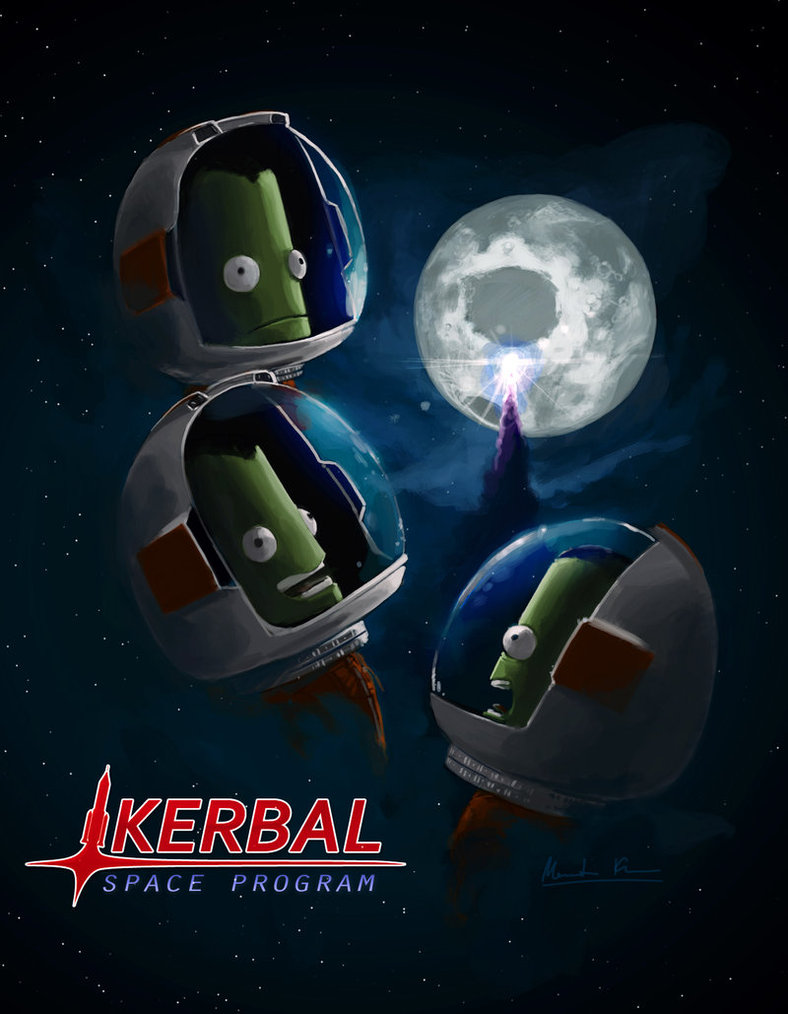
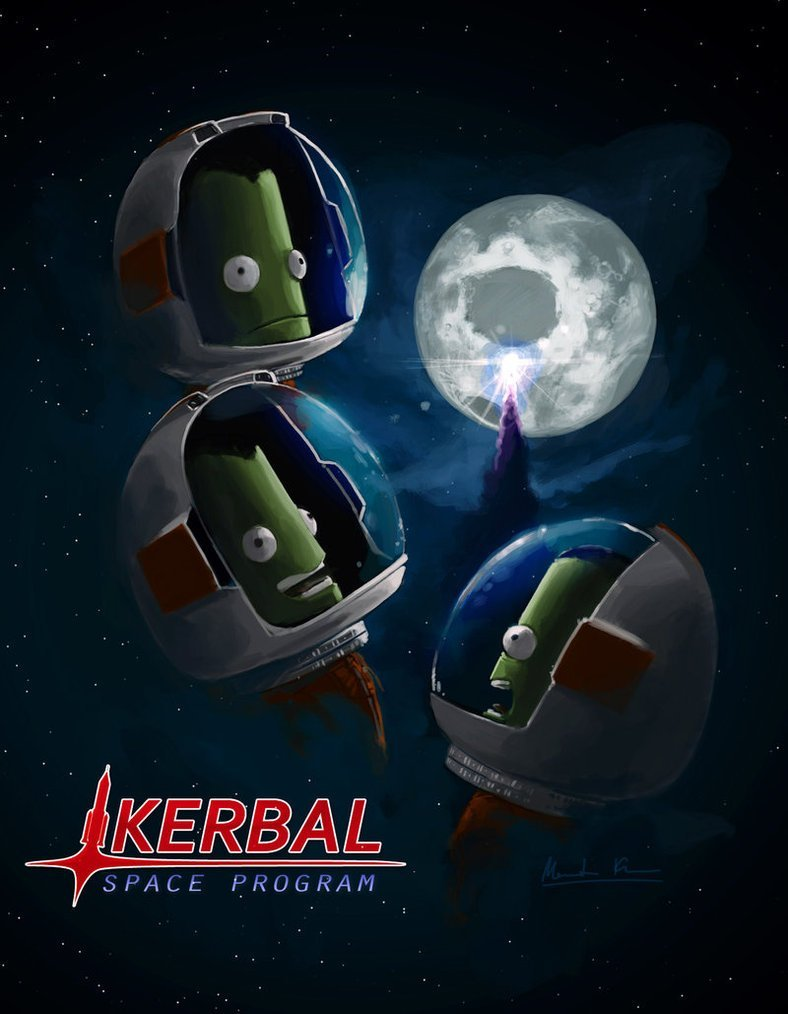
Optimize images

Changed region(s): [[0.0914, 0.7949, 0.4873, 0.8866], [0.1218, 0.7643, 0.1523, 0.7949], [0.0609, 0.8254, 0.0914, 0.856]]

diff --git a/web/index.html b/web/index.html
@@ -142,6 +142,14 @@ table a
 	text-decoration: none;
 	font-family: sans-serif;
 }
+#toc>dl>dt:nth-child( 3)>a { background-image: url('img/banners/minmus.jpg'); }
+#toc>dl>dt:nth-child( 5)>a { background-image: url('img/banners/gilly.jpg'); }
+#toc>dl>dt:nth-child( 7)>a { background-image: url('img/banners/eve.jpg'); }
+#toc>dl>dt:nth-child( 9)>a { background-image: url('img/banners/duna.jpg'); }
+#toc>dl>dt:nth-child(11)>a { background-image: url('img/banners/ike.jpg'); }
+#toc>dl>dt:nth-child(13)>a { background-image: url('img/banners/laythe.jpg'); }
+#toc>dl>dt:nth-child(15)>a { background-image: url('img/banners/jool.jpg'); }
+#toc>dl>dt:nth-child(17)>a { background-image: url('img/banners/pol.jpg'); }
 </style>
 </head>
 <body>
@@ -206,17 +214,17 @@ freely available, but you can make a payment to support the project.
 <dl>
 <dt><a href="intro.html">Introduction</a></dt>
 <dd>A short introduction describing the document.</dd>
-<dt><a href="basics.html" style="background-image: url('img/banners/minmus.png')">Basics</a></dt>
+<dt><a href="basics.html">Basics</a></dt>
 <dd>A few notations and concepts from mathematics and physics that can be useful to understand the formulas from next chapters.</dd>
-<dt><a href="mechanics.html" style="background-image: url('img/banners/gilly.png')">Mechanics</a></dt>
+<dt><a href="mechanics.html">Mechanics</a></dt>
 <dd>How stuff moves, and how we try to efficiently predict its position at some point in the future.</dd>
-<dt><a href="orbits.html" style="background-image: url('img/banners/eve.png')">Orbits</a></dt>
+<dt><a href="orbits.html">Orbits</a></dt>
 <dd>How orbits work, how they can be described with a few numbers, and how we can use them to predict a trajectory.</dd>
-<dt><a href="launch.html" style="background-image: url('img/banners/duna.png')">Launch</a></dt>
+<dt><a href="launch.html">Launch</a></dt>
 <dd>How a spacecraft can lift from the ground all the way up to its first stable orbit.</dd>
-<dt><a href="maneuvers.html" style="background-image: url('img/banners/ike.png')">Maneuvers</a></dt>
+<dt><a href="maneuvers.html">Maneuvers</a></dt>
 <dd>How a spacecraft can change its trajectory, and how much such a maneuver would cost.</dd>
-<dt><a href="operating.html" style="background-image: url('img/banners/laythe.png')">Operating</a></dt>
+<dt><a href="operating.html">Operating</a></dt>
 <dd>Some practical matters to take into considerations when planing missions for orbiters or landers.</dd>
 </dl>
 </nav>

diff --git a/style.tex b/style.tex
@@ -71,13 +71,14 @@
 	\stepcounter{BannerCount}
 	\expandafter\addindex{banners}{\theBannerCount}{#1}
 }
-\newcommand\banner{\ClearWallPaper\ULCornerWallPaper{1}{img/banners/\csname banners\thechapter\endcsname.png}}
+\newcommand\banner{\ClearWallPaper\ULCornerWallPaper{1}{img/banners/\csname banners\thechapter\endcsname.jpg}}
 \addbanner{minmus}
 \addbanner{gilly}
 \addbanner{eve}
 \addbanner{duna}
 \addbanner{ike}
 \addbanner{laythe}
+\addbanner{jool}
 \addbanner{pol}
 
 % automatically scale graphics

diff --git a/bib.tex b/bib.tex
@@ -94,5 +94,5 @@
 %2009--2014, Youtube channel, Scott Manley, \\
 %\url{https://www.youtube.com/user/szyzyg}
 
-\ThisLLCornerWallPaper{1}{img/spaceKerbal_1920x1080.png}
+\ThisLLCornerWallPaper{1}{img/spaceKerbal_1920x1080.jpg}
 \end{thebibliography}
